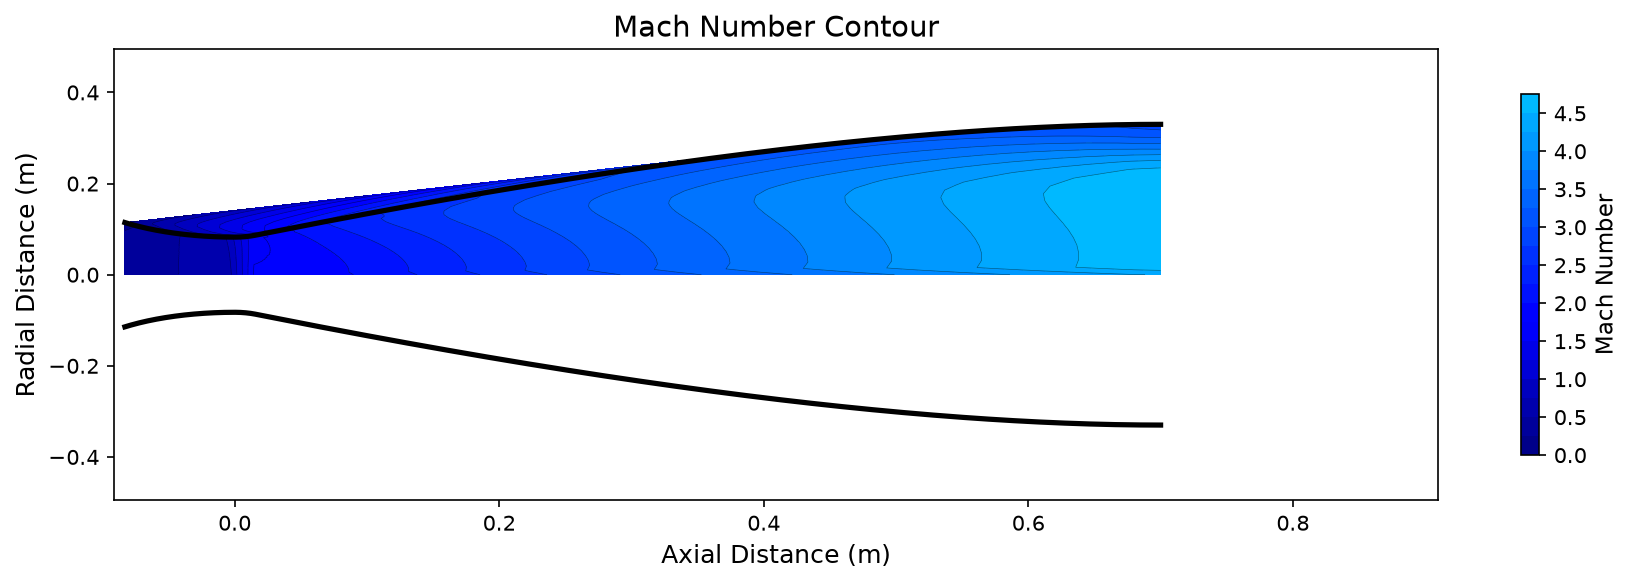
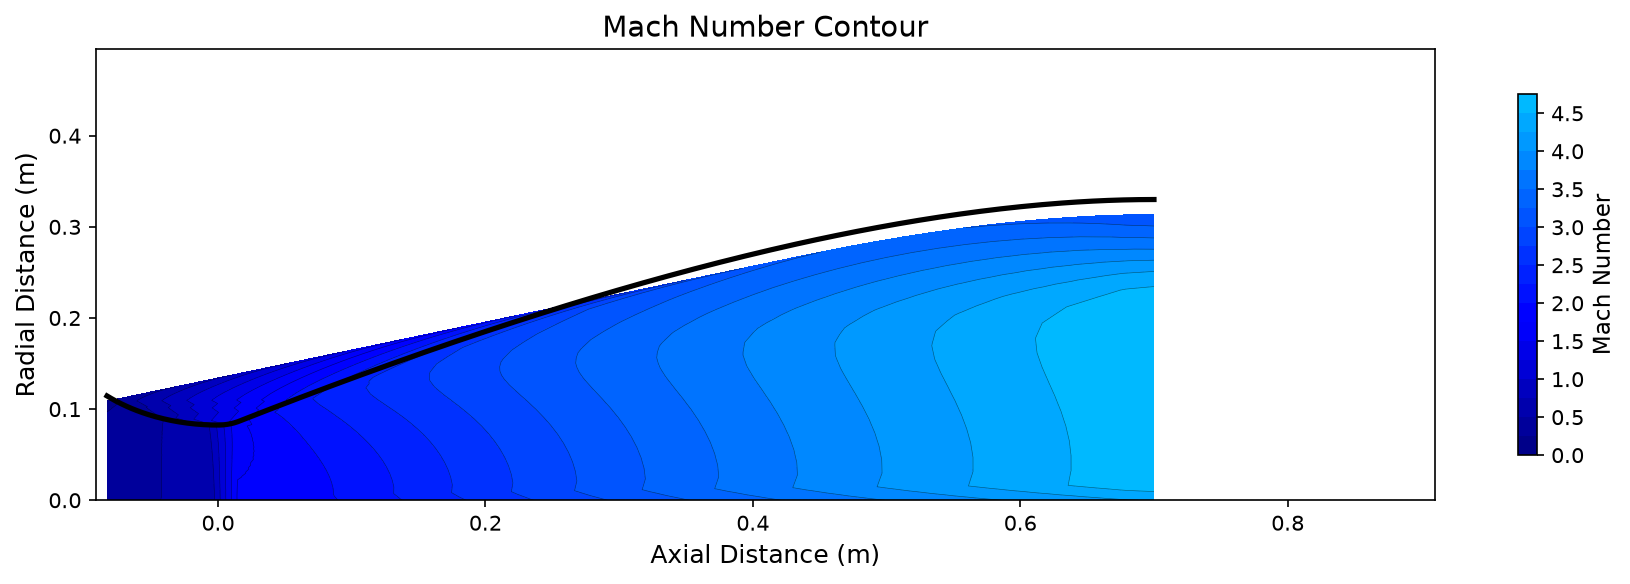
fix: top-half plots, RANS contours, clipping
- Plots show top half only (y >= 0) matching mesh domain
- Contour data clipped to nozzle boundary (no overflow)
- Added pressure_contour and velocity_contour functions
- Updated RANS stage to generate Mach/pressure/velocity/convergence
- Fixed VTU parser for 3-component Velocity field
- Euler: top-half contour, RANS: all 4 contour types

diff --git a/src/viz/mach_contour.py b/src/viz/mach_contour.py
@@ -11,6 +11,38 @@ if TYPE_CHECKING:
     from nozzle.config import NozzleConfig
 
 
+def _mask_inside_nozzle(
+    coords: np.ndarray,
+    nozzle_config: "NozzleConfig",
+) -> np.ndarray:
+    """Return boolean mask for points inside the nozzle (below the wall contour).
+
+    For each point (x, y), computes the wall y-coordinate at that x and keeps
+    the point only if 0 <= y <= y_wall(x). Points outside the nozzle domain are
+    excluded from the contour plot.
+
+    Args:
+        coords: (N, 3) node coordinates
+        nozzle_config: Nozzle geometry parameters
+
+    Returns:
+        (N,) boolean mask, True for points inside the nozzle domain
+    """
+    from nozzle.geometry import generate_contour
+
+    x_wall, y_wall = generate_contour(nozzle_config)
+    x_pts = coords[:, 0]
+    y_pts = coords[:, 1]
+
+    # Interpolate wall y at each point x
+    y_wall_interp = np.interp(x_pts, x_wall, y_wall)
+
+    # Inside: y >= 0 and y <= wall y (with small tolerance for boundary points)
+    tol = 1e-10
+    mask = (y_pts >= -tol) & (y_pts <= y_wall_interp + tol)
+    return mask
+
+
 def plot_mach_contour(
     flow_vtu: Path,
     output_path: Path,
@@ -21,6 +53,7 @@ def plot_mach_contour(
 
     Uses tricontourf for filled contours instead of scatter points.
     Optionally overlays the nozzle wall contour when nozzle_config is provided.
+    Contour data is clipped to the nozzle domain (top half only).
 
     Args:
         flow_vtu: Path to SU2 flow.vtu file
@@ -49,6 +82,12 @@ def plot_mach_contour(
         # (diverged solutions can produce garbage values like Mach 400+)
         mach_clamped = np.clip(mach, 0, 20)
 
+        # Clip to nozzle domain if config provided
+        if nozzle_config is not None:
+            mask = _mask_inside_nozzle(coords, nozzle_config)
+            coords = coords[mask]
+            mach_clamped = mach_clamped[mask]
+
         # Create triangulation for filled contour plot
         triang = Triangulation(coords[:, 0], coords[:, 1])
 
@@ -61,7 +100,7 @@ def plot_mach_contour(
         )
 
         # Add contour lines for better visualization
-        ax.tricontour(triang, mach, levels=20, colors='k', linewidths=0.3, alpha=0.5)
+        ax.tricontour(triang, mach_clamped, levels=20, colors='k', linewidths=0.3, alpha=0.5)
 
         ax.set_xlabel('Axial Distance (m)', fontsize=12)
         ax.set_ylabel('Radial Distance (m)', fontsize=12)
@@ -71,13 +110,14 @@ def plot_mach_contour(
         if nozzle_config is not None:
             from nozzle.geometry import generate_contour
             x_wall, y_wall = generate_contour(nozzle_config)
+            # Top half only
             ax.plot(x_wall, y_wall, 'k-', linewidth=2.5, label='Nozzle Wall')
-            ax.plot(x_wall, -y_wall, 'k-', linewidth=2.5)
+            ax.axhline(y=0, color='k', linestyle='--', linewidth=0.5)
 
-            # Set axis limits to show full nozzle
+            # Set axis limits to show full nozzle (top half)
             ax.set_xlim(x_wall[0] * 1.1, x_wall[-1] * 1.3)
             y_max = y_wall.max() * 1.5
-            ax.set_ylim(-y_max, y_max)
+            ax.set_ylim(0, y_max)
         else:
             ax.set_aspect('equal')
 
@@ -94,4 +134,183 @@ def plot_mach_contour(
 
     except Exception as e:
         print(f"Error plotting Mach contour: {e}")
+        return output_path
+
+
+def plot_pressure_contour(
+    flow_vtu: Path,
+    output_path: Path,
+    nozzle_config: "NozzleConfig | None" = None,
+    dpi: int = 150,
+) -> Path:
+    """Plot static pressure contour from SU2 flow.vtu.
+
+    Uses tricontourf for filled contours. Contour data is clipped to the
+    nozzle domain (top half only). Uses viridis colormap (blue=low, yellow=high).
+
+    Args:
+        flow_vtu: Path to SU2 flow.vtu file
+        output_path: Path to save contour plot
+        nozzle_config: Optional NozzleConfig for wall overlay
+        dpi: Image resolution
+
+    Returns:
+        Path to saved plot
+    """
+    try:
+        import sys
+        sys.path.insert(0, str(Path(__file__).parent.parent))
+        from cfd.vtu_parser import parse_vtu
+
+        data = parse_vtu(flow_vtu)
+
+        if data.pressure is None:
+            print(f"Warning: No Pressure data in {flow_vtu}")
+            return output_path
+
+        coords = data.coordinates
+        pressure = data.pressure
+
+        # Clip to nozzle domain if config provided
+        if nozzle_config is not None:
+            mask = _mask_inside_nozzle(coords, nozzle_config)
+            coords = coords[mask]
+            pressure = pressure[mask]
+
+        # Create triangulation for filled contour plot
+        triang = Triangulation(coords[:, 0], coords[:, 1])
+
+        # Create figure
+        fig, ax = plt.subplots(1, 1, figsize=(12, 4))
+
+        # Filled contour plot (viridis: blue=low, yellow=high)
+        contour = ax.tricontourf(
+            triang, pressure, levels=20, cmap='viridis',
+        )
+
+        # Add contour lines for better visualization
+        ax.tricontour(triang, pressure, levels=20, colors='k', linewidths=0.3, alpha=0.5)
+
+        ax.set_xlabel('Axial Distance (m)', fontsize=12)
+        ax.set_ylabel('Radial Distance (m)', fontsize=12)
+        ax.set_title('Static Pressure Contour', fontsize=14)
+
+        # Overlay nozzle wall contour if config provided
+        if nozzle_config is not None:
+            from nozzle.geometry import generate_contour
+            x_wall, y_wall = generate_contour(nozzle_config)
+            # Top half only
+            ax.plot(x_wall, y_wall, 'k-', linewidth=2.5, label='Nozzle Wall')
+            ax.axhline(y=0, color='k', linestyle='--', linewidth=0.5)
+
+            # Set axis limits to show full nozzle (top half)
+            ax.set_xlim(x_wall[0] * 1.1, x_wall[-1] * 1.3)
+            y_max = y_wall.max() * 1.5
+            ax.set_ylim(0, y_max)
+        else:
+            ax.set_aspect('equal')
+
+        # Add colorbar
+        cbar = plt.colorbar(contour, ax=ax, shrink=0.8)
+        cbar.set_label('Static Pressure (Pa)', fontsize=11)
+
+        plt.tight_layout()
+        output_path.parent.mkdir(parents=True, exist_ok=True)
+        plt.savefig(output_path, dpi=dpi, bbox_inches='tight')
+        plt.close()
+
+        return output_path
+
+    except Exception as e:
+        print(f"Error plotting pressure contour: {e}")
+        return output_path
+
+
+def plot_velocity_contour(
+    flow_vtu: Path,
+    output_path: Path,
+    nozzle_config: "NozzleConfig | None" = None,
+    dpi: int = 150,
+) -> Path:
+    """Plot velocity magnitude contour from SU2 flow.vtu.
+
+    Computes |V| = sqrt(Vx^2 + Vy^2) from velocity components.
+    Contour data is clipped to the nozzle domain (top half only).
+    Uses plasma colormap.
+
+    Args:
+        flow_vtu: Path to SU2 flow.vtu file
+        output_path: Path to save contour plot
+        nozzle_config: Optional NozzleConfig for wall overlay
+        dpi: Image resolution
+
+    Returns:
+        Path to saved plot
+    """
+    try:
+        import sys
+        sys.path.insert(0, str(Path(__file__).parent.parent))
+        from cfd.vtu_parser import parse_vtu
+
+        data = parse_vtu(flow_vtu)
+
+        if data.velocity_x is None or data.velocity_y is None:
+            print(f"Warning: No velocity data in {flow_vtu}")
+            return output_path
+
+        coords = data.coordinates
+        velocity_mag = np.sqrt(data.velocity_x**2 + data.velocity_y**2)
+
+        # Clip to nozzle domain if config provided
+        if nozzle_config is not None:
+            mask = _mask_inside_nozzle(coords, nozzle_config)
+            coords = coords[mask]
+            velocity_mag = velocity_mag[mask]
+
+        # Create triangulation for filled contour plot
+        triang = Triangulation(coords[:, 0], coords[:, 1])
+
+        # Create figure
+        fig, ax = plt.subplots(1, 1, figsize=(12, 4))
+
+        # Filled contour plot (plasma colormap)
+        contour = ax.tricontourf(
+            triang, velocity_mag, levels=20, cmap='plasma',
+        )
+
+        # Add contour lines for better visualization
+        ax.tricontour(triang, velocity_mag, levels=20, colors='k', linewidths=0.3, alpha=0.5)
+
+        ax.set_xlabel('Axial Distance (m)', fontsize=12)
+        ax.set_ylabel('Radial Distance (m)', fontsize=12)
+        ax.set_title('Velocity Magnitude Contour', fontsize=14)
+
+        # Overlay nozzle wall contour if config provided
+        if nozzle_config is not None:
+            from nozzle.geometry import generate_contour
+            x_wall, y_wall = generate_contour(nozzle_config)
+            # Top half only
+            ax.plot(x_wall, y_wall, 'k-', linewidth=2.5, label='Nozzle Wall')
+            ax.axhline(y=0, color='k', linestyle='--', linewidth=0.5)
+
+            # Set axis limits to show full nozzle (top half)
+            ax.set_xlim(x_wall[0] * 1.1, x_wall[-1] * 1.3)
+            y_max = y_wall.max() * 1.5
+            ax.set_ylim(0, y_max)
+        else:
+            ax.set_aspect('equal')
+
+        # Add colorbar
+        cbar = plt.colorbar(contour, ax=ax, shrink=0.8)
+        cbar.set_label('Velocity (m/s)', fontsize=11)
+
+        plt.tight_layout()
+        output_path.parent.mkdir(parents=True, exist_ok=True)
+        plt.savefig(output_path, dpi=dpi, bbox_inches='tight')
+        plt.close()
+
+        return output_path
+
+    except Exception as e:
+        print(f"Error plotting velocity contour: {e}")
         return output_path

diff --git a/src/cfd/vtu_parser.py b/src/cfd/vtu_parser.py
@@ -77,14 +77,26 @@ def _parse_vtu_ascii(vtu_path: Path) -> VTUData:
     
     coordinates = np.vstack(coords_list)
     
+    # Handle combined Velocity field (3-component) vs separate Velocity_x/Velocity_y
+    velocity_x = fields.get("Velocity_x")
+    velocity_y = fields.get("Velocity_y")
+    if velocity_x is None and "Velocity" in fields:
+        vel = fields["Velocity"]
+        if vel.ndim == 2 and vel.shape[1] >= 2:
+            velocity_x = vel[:, 0]
+            velocity_y = vel[:, 1]
+        elif vel.ndim == 1:
+            # Single-component velocity (shouldn't happen, but be safe)
+            velocity_x = vel
+    
     return VTUData(
         coordinates=coordinates,
         mach=fields.get("Mach"),
         pressure=fields.get("Pressure"),
         temperature=fields.get("Temperature"),
         density=fields.get("Density"),
-        velocity_x=fields.get("Velocity_x"),
-        velocity_y=fields.get("Velocity_y"),
+        velocity_x=velocity_x,
+        velocity_y=velocity_y,
         tke=fields.get("TKE"),
     )
 
@@ -168,6 +180,12 @@ def _parse_vtu_appended(vtu_path: Path) -> VTUData:
                     
                     data = np.frombuffer(binary_content[data_start_offset:data_start_offset + n_bytes],
                                         dtype=dtype)
+                    # Handle multi-component fields (e.g., Velocity with NumberOfComponents=3)
+                    n_components_str = data_array.get('NumberOfComponents')
+                    if n_components_str is not None:
+                        n_components = int(n_components_str)
+                        if n_components > 1 and len(data) % n_components == 0:
+                            data = data.reshape(-1, n_components)
                     fields[name] = data
     
     if not coords_list:
@@ -175,13 +193,24 @@ def _parse_vtu_appended(vtu_path: Path) -> VTUData:
     
     coordinates = np.vstack(coords_list)
     
+    # Handle combined Velocity field (3-component) vs separate Velocity_x/Velocity_y
+    velocity_x = fields.get("Velocity_x")
+    velocity_y = fields.get("Velocity_y")
+    if velocity_x is None and "Velocity" in fields:
+        vel = fields["Velocity"]
+        if vel.ndim == 2 and vel.shape[1] >= 2:
+            velocity_x = vel[:, 0]
+            velocity_y = vel[:, 1]
+        elif vel.ndim == 1:
+            velocity_x = vel
+    
     return VTUData(
         coordinates=coordinates,
         mach=fields.get("Mach"),
         pressure=fields.get("Pressure"),
         temperature=fields.get("Temperature"),
         density=fields.get("Density"),
-        velocity_x=fields.get("Velocity_x"),
-        velocity_y=fields.get("Velocity_y"),
+        velocity_x=velocity_x,
+        velocity_y=velocity_y,
         tke=fields.get("TKE"),
     )

diff --git a/src/pipeline/stages.py b/src/pipeline/stages.py
@@ -248,8 +248,19 @@ def run_rans_stage(config: EngineConfig) -> int:
 
     vtu = workdir / "flow.vtu"
     if vtu.exists():
-        from viz.mach_contour import plot_mach_contour
+        from viz.mach_contour import (
+            plot_mach_contour,
+            plot_pressure_contour,
+            plot_velocity_contour,
+        )
         plot_mach_contour(vtu, images_dir / "mach_contour_rans.png", nozzle_config=nozzle_config)
+        plot_pressure_contour(vtu, images_dir / "pressure_contour_rans.png", nozzle_config=nozzle_config)
+        plot_velocity_contour(vtu, images_dir / "velocity_contour_rans.png", nozzle_config=nozzle_config)
+
+    history = workdir / "history.csv"
+    if history.exists():
+        from viz.convergence import plot_convergence
+        plot_convergence(history, images_dir / "convergence_rans.png")
 
     print(f"  Exit Mach: {results.exit_mach:.4f}, Time: {elapsed:.1f}s")
 
